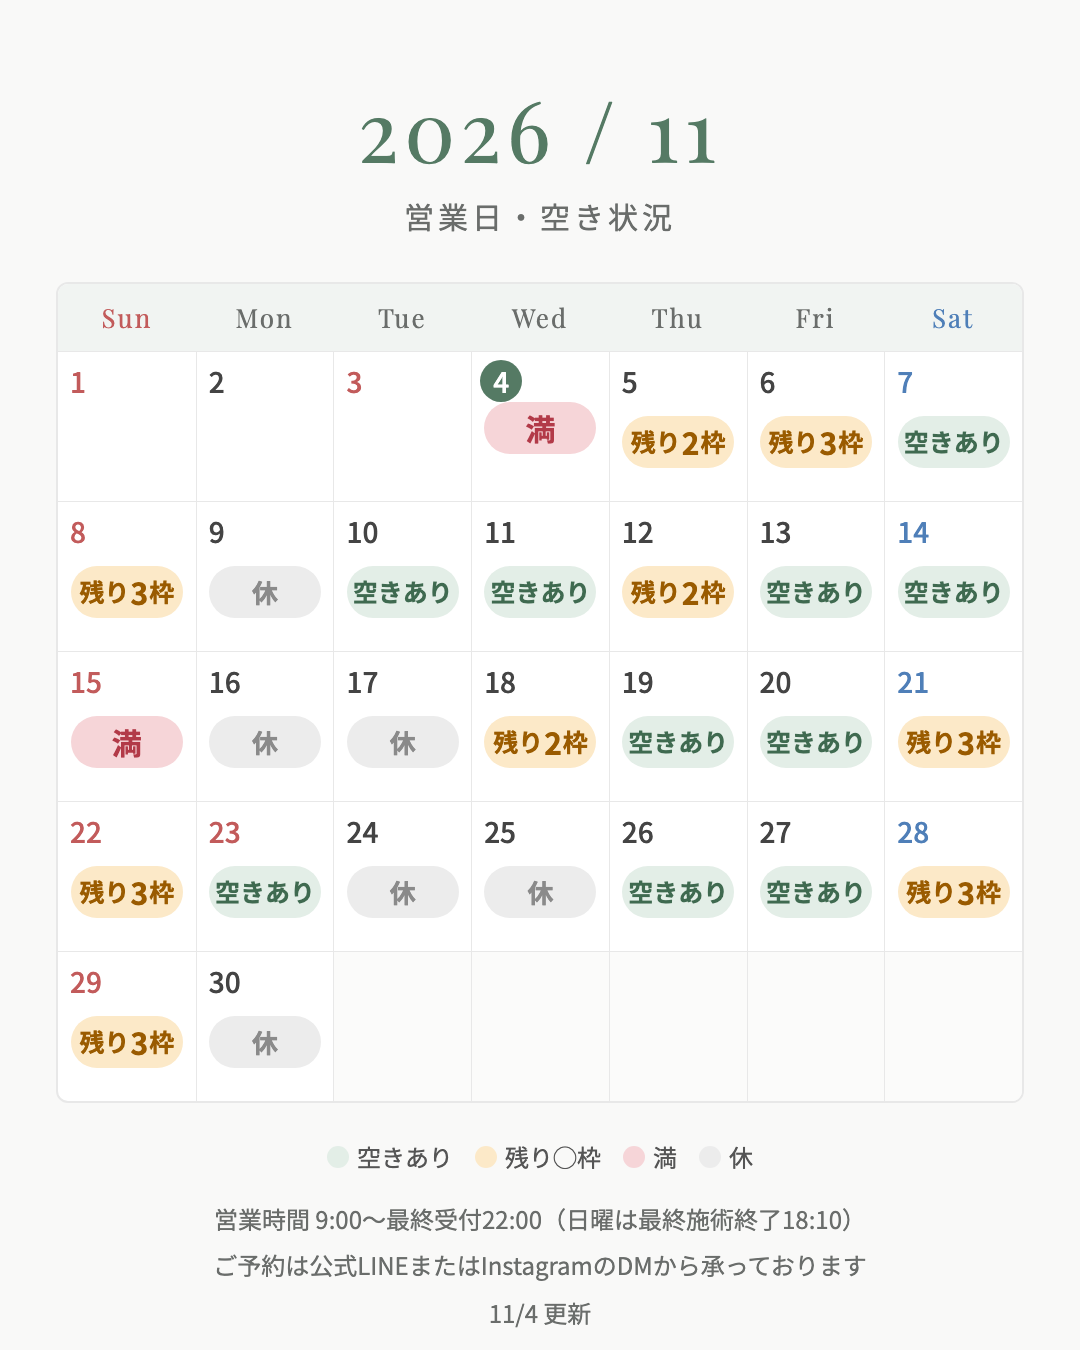
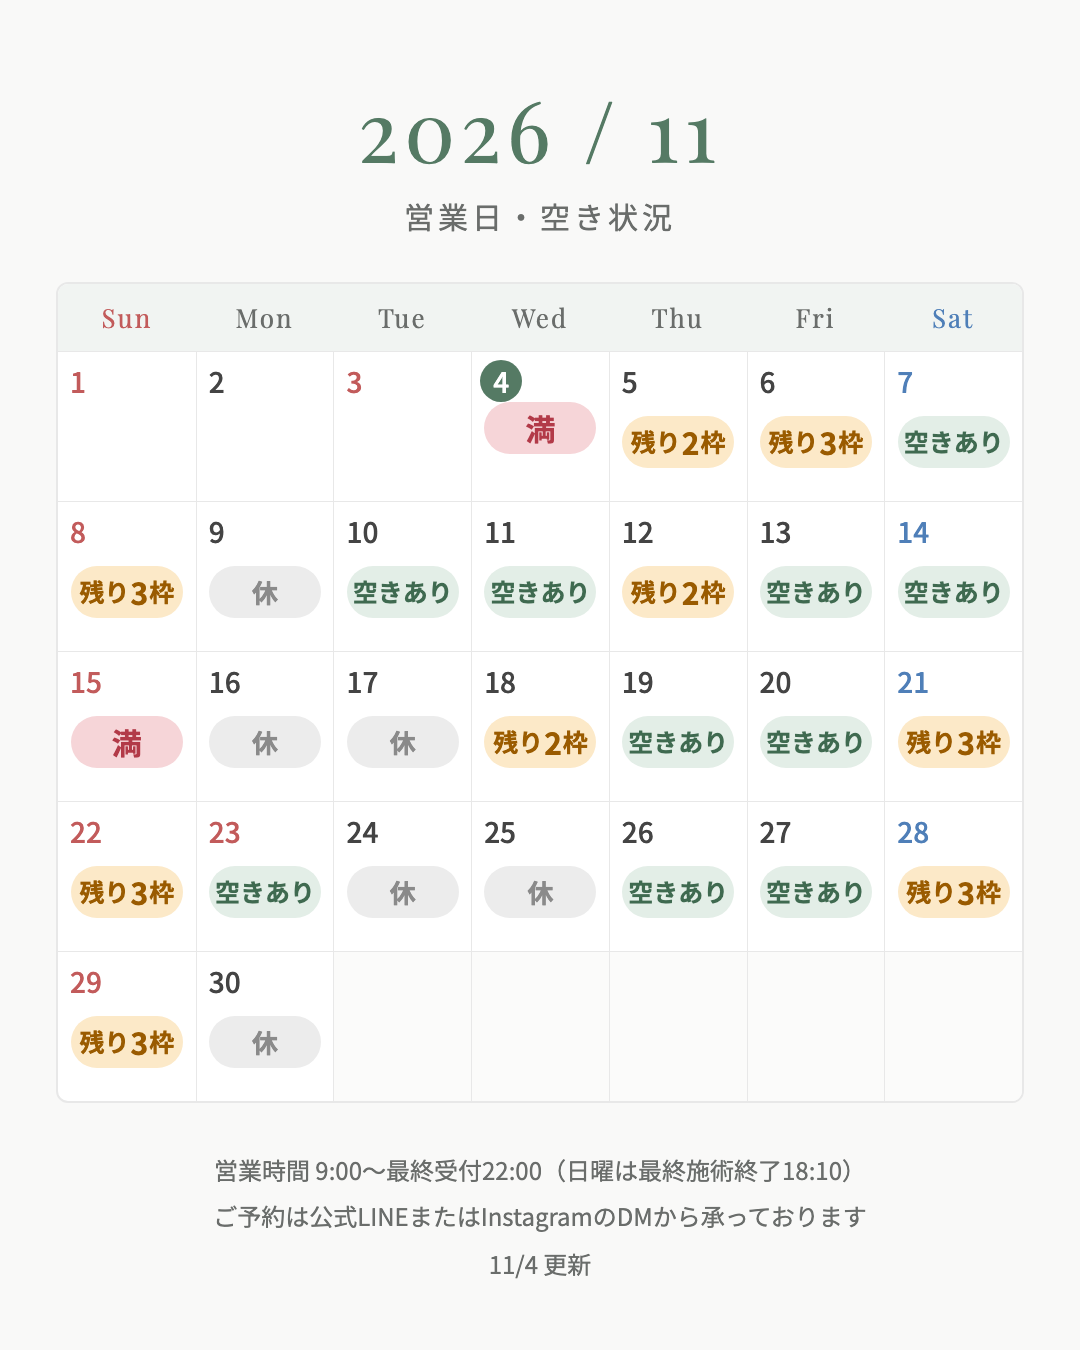
fix: 空き状況カレンダー画像から凡例を削除

Changed region(s): [[0.1833, 0.84, 0.7944, 0.9956]]

diff --git a/scripts/calendar/gen.py b/scripts/calendar/gen.py
@@ -76,7 +76,7 @@ h1{{font-family:'Playfair Display',serif;font-weight:400;font-size:84px;color:#5
 .legend{{display:flex;justify-content:center;gap:22px;margin:36px 0 22px;font-size:24px;color:#555}}
 .legend span{{display:flex;align-items:center;gap:8px}}
 .legend i{{width:22px;height:22px;border-radius:50%;display:inline-block}}
-.note{{text-align:center;color:#6A6D6B;font-size:24px;line-height:1.9}}
+.note{{margin-top:44px;text-align:center;color:#6A6D6B;font-size:24px;line-height:1.9}}
 .upd{{text-align:center;color:#6A6D6B;font-size:24px;margin-top:8px}}
 </style></head><body>
 <h1>{Y} / {M:02d}</h1>
@@ -84,12 +84,6 @@ h1{{font-family:'Playfair Display',serif;font-weight:400;font-size:84px;color:#5
 <div class="grid">
 {''.join(f'<div class="dow{" sun" if i==0 else " sat" if i==6 else ""}">{n}</div>' for i,n in enumerate(["Sun","Mon","Tue","Wed","Thu","Fri","Sat"]))}
 {''.join(cells)}
-</div>
-<div class="legend">
-<span><i style="background:#E3EEE7"></i>空きあり</span>
-<span><i style="background:#FCE9C8"></i>残り◯枠</span>
-<span><i style="background:#F6D5D8"></i>満</span>
-<span><i style="background:#ECECEC"></i>休</span>
 </div>
 <div class="note">営業時間 9:00〜最終受付22:00（日曜は最終施術終了18:10）<br>ご予約は公式LINEまたはInstagramのDMから承っております</div>
 <div class="upd">{TODAY.month}/{TODAY.day} 更新</div>
